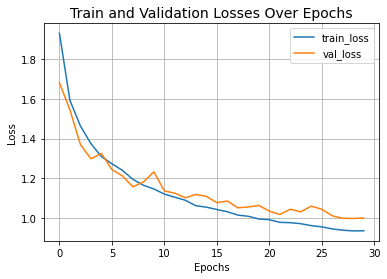
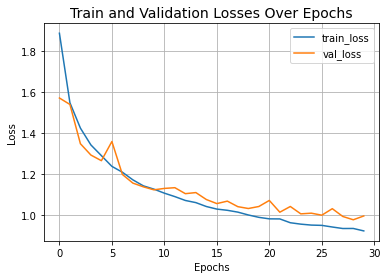
added hugginface links cct

diff --git a/examples/vision/md/cct.md b/examples/vision/md/cct.md
@@ -98,6 +98,9 @@ print(f"x_test shape: {x_test.shape} - y_test shape: {y_test.shape}")
 
 <div class="k-default-codeblock">
 ```
+Downloading data from https://www.cs.toronto.edu/~kriz/cifar-10-python.tar.gz
+170500096/170498071 [==============================] - 2s 0us/step
+170508288/170498071 [==============================] - 2s 0us/step
 x_train shape: (50000, 32, 32, 3) - y_train shape: (50000, 10)
 x_test shape: (10000, 32, 32, 3) - y_test shape: (10000, 10)
 
@@ -381,68 +384,68 @@ history = run_experiment(cct_model)
 <div class="k-default-codeblock">
 ```
 Epoch 1/30
-352/352 [==============================] - 16s 37ms/step - loss: 1.9286 - accuracy: 0.3262 - top-5-accuracy: 0.8222 - val_loss: 1.6803 - val_accuracy: 0.4624 - val_top-5-accuracy: 0.9074
+352/352 [==============================] - 19s 38ms/step - loss: 1.8851 - accuracy: 0.3445 - top-5-accuracy: 0.8316 - val_loss: 1.5695 - val_accuracy: 0.4974 - val_top-5-accuracy: 0.9368
 Epoch 2/30
-352/352 [==============================] - 12s 35ms/step - loss: 1.5919 - accuracy: 0.4884 - top-5-accuracy: 0.9280 - val_loss: 1.5446 - val_accuracy: 0.5176 - val_top-5-accuracy: 0.9404
+352/352 [==============================] - 12s 35ms/step - loss: 1.5465 - accuracy: 0.5080 - top-5-accuracy: 0.9367 - val_loss: 1.5381 - val_accuracy: 0.5166 - val_top-5-accuracy: 0.9458
 Epoch 3/30
-352/352 [==============================] - 12s 35ms/step - loss: 1.4632 - accuracy: 0.5535 - top-5-accuracy: 0.9492 - val_loss: 1.3702 - val_accuracy: 0.6046 - val_top-5-accuracy: 0.9574
+352/352 [==============================] - 12s 35ms/step - loss: 1.4227 - accuracy: 0.5747 - top-5-accuracy: 0.9524 - val_loss: 1.3466 - val_accuracy: 0.6174 - val_top-5-accuracy: 0.9658
 Epoch 4/30
-352/352 [==============================] - 12s 35ms/step - loss: 1.3749 - accuracy: 0.5965 - top-5-accuracy: 0.9588 - val_loss: 1.2989 - val_accuracy: 0.6378 - val_top-5-accuracy: 0.9696
+352/352 [==============================] - 12s 35ms/step - loss: 1.3407 - accuracy: 0.6166 - top-5-accuracy: 0.9626 - val_loss: 1.2914 - val_accuracy: 0.6370 - val_top-5-accuracy: 0.9708
 Epoch 5/30
-352/352 [==============================] - 12s 35ms/step - loss: 1.3095 - accuracy: 0.6282 - top-5-accuracy: 0.9651 - val_loss: 1.3252 - val_accuracy: 0.6280 - val_top-5-accuracy: 0.9668
+352/352 [==============================] - 12s 35ms/step - loss: 1.2885 - accuracy: 0.6399 - top-5-accuracy: 0.9674 - val_loss: 1.2640 - val_accuracy: 0.6494 - val_top-5-accuracy: 0.9734
 Epoch 6/30
-352/352 [==============================] - 12s 35ms/step - loss: 1.2735 - accuracy: 0.6483 - top-5-accuracy: 0.9687 - val_loss: 1.2445 - val_accuracy: 0.6658 - val_top-5-accuracy: 0.9750
+352/352 [==============================] - 12s 35ms/step - loss: 1.2363 - accuracy: 0.6659 - top-5-accuracy: 0.9723 - val_loss: 1.3574 - val_accuracy: 0.6294 - val_top-5-accuracy: 0.9522
 Epoch 7/30
-352/352 [==============================] - 12s 35ms/step - loss: 1.2405 - accuracy: 0.6623 - top-5-accuracy: 0.9712 - val_loss: 1.2127 - val_accuracy: 0.6800 - val_top-5-accuracy: 0.9734
+352/352 [==============================] - 12s 35ms/step - loss: 1.2077 - accuracy: 0.6787 - top-5-accuracy: 0.9752 - val_loss: 1.1969 - val_accuracy: 0.6942 - val_top-5-accuracy: 0.9712
 Epoch 8/30
-352/352 [==============================] - 13s 36ms/step - loss: 1.1953 - accuracy: 0.6852 - top-5-accuracy: 0.9760 - val_loss: 1.1579 - val_accuracy: 0.7042 - val_top-5-accuracy: 0.9764
+352/352 [==============================] - 12s 35ms/step - loss: 1.1705 - accuracy: 0.6983 - top-5-accuracy: 0.9770 - val_loss: 1.1547 - val_accuracy: 0.7032 - val_top-5-accuracy: 0.9792
 Epoch 9/30
-352/352 [==============================] - 12s 35ms/step - loss: 1.1659 - accuracy: 0.6940 - top-5-accuracy: 0.9787 - val_loss: 1.1817 - val_accuracy: 0.7026 - val_top-5-accuracy: 0.9746
+352/352 [==============================] - 12s 35ms/step - loss: 1.1413 - accuracy: 0.7113 - top-5-accuracy: 0.9797 - val_loss: 1.1365 - val_accuracy: 0.7182 - val_top-5-accuracy: 0.9786
 Epoch 10/30
-352/352 [==============================] - 12s 35ms/step - loss: 1.1469 - accuracy: 0.7097 - top-5-accuracy: 0.9784 - val_loss: 1.2331 - val_accuracy: 0.6684 - val_top-5-accuracy: 0.9758
+352/352 [==============================] - 12s 35ms/step - loss: 1.1253 - accuracy: 0.7169 - top-5-accuracy: 0.9800 - val_loss: 1.1220 - val_accuracy: 0.7252 - val_top-5-accuracy: 0.9790
 Epoch 11/30
-352/352 [==============================] - 12s 35ms/step - loss: 1.1214 - accuracy: 0.7196 - top-5-accuracy: 0.9800 - val_loss: 1.1374 - val_accuracy: 0.7222 - val_top-5-accuracy: 0.9796
+352/352 [==============================] - 12s 35ms/step - loss: 1.1056 - accuracy: 0.7278 - top-5-accuracy: 0.9810 - val_loss: 1.1288 - val_accuracy: 0.7226 - val_top-5-accuracy: 0.9784
 Epoch 12/30
-352/352 [==============================] - 13s 36ms/step - loss: 1.1055 - accuracy: 0.7264 - top-5-accuracy: 0.9818 - val_loss: 1.1257 - val_accuracy: 0.7276 - val_top-5-accuracy: 0.9796
+352/352 [==============================] - 12s 35ms/step - loss: 1.0889 - accuracy: 0.7371 - top-5-accuracy: 0.9822 - val_loss: 1.1323 - val_accuracy: 0.7184 - val_top-5-accuracy: 0.9788
 Epoch 13/30
-352/352 [==============================] - 12s 35ms/step - loss: 1.0904 - accuracy: 0.7337 - top-5-accuracy: 0.9820 - val_loss: 1.1029 - val_accuracy: 0.7374 - val_top-5-accuracy: 0.9794
+352/352 [==============================] - 12s 35ms/step - loss: 1.0701 - accuracy: 0.7448 - top-5-accuracy: 0.9836 - val_loss: 1.1032 - val_accuracy: 0.7312 - val_top-5-accuracy: 0.9798
 Epoch 14/30
-352/352 [==============================] - 12s 35ms/step - loss: 1.0629 - accuracy: 0.7483 - top-5-accuracy: 0.9842 - val_loss: 1.1196 - val_accuracy: 0.7260 - val_top-5-accuracy: 0.9792
+352/352 [==============================] - 12s 35ms/step - loss: 1.0596 - accuracy: 0.7489 - top-5-accuracy: 0.9845 - val_loss: 1.1085 - val_accuracy: 0.7378 - val_top-5-accuracy: 0.9794
 Epoch 15/30
-352/352 [==============================] - 12s 35ms/step - loss: 1.0558 - accuracy: 0.7528 - top-5-accuracy: 0.9837 - val_loss: 1.1100 - val_accuracy: 0.7308 - val_top-5-accuracy: 0.9780
+352/352 [==============================] - 12s 35ms/step - loss: 1.0406 - accuracy: 0.7564 - top-5-accuracy: 0.9857 - val_loss: 1.0746 - val_accuracy: 0.7438 - val_top-5-accuracy: 0.9828
 Epoch 16/30
-352/352 [==============================] - 12s 35ms/step - loss: 1.0440 - accuracy: 0.7567 - top-5-accuracy: 0.9850 - val_loss: 1.0782 - val_accuracy: 0.7454 - val_top-5-accuracy: 0.9830
+352/352 [==============================] - 12s 35ms/step - loss: 1.0280 - accuracy: 0.7635 - top-5-accuracy: 0.9860 - val_loss: 1.0549 - val_accuracy: 0.7548 - val_top-5-accuracy: 0.9832
 Epoch 17/30
-352/352 [==============================] - 12s 35ms/step - loss: 1.0327 - accuracy: 0.7607 - top-5-accuracy: 0.9861 - val_loss: 1.0865 - val_accuracy: 0.7418 - val_top-5-accuracy: 0.9824
+352/352 [==============================] - 12s 35ms/step - loss: 1.0222 - accuracy: 0.7693 - top-5-accuracy: 0.9867 - val_loss: 1.0668 - val_accuracy: 0.7566 - val_top-5-accuracy: 0.9786
 Epoch 18/30
-352/352 [==============================] - 12s 35ms/step - loss: 1.0160 - accuracy: 0.7695 - top-5-accuracy: 0.9870 - val_loss: 1.0525 - val_accuracy: 0.7594 - val_top-5-accuracy: 0.9822
+352/352 [==============================] - 12s 35ms/step - loss: 1.0132 - accuracy: 0.7705 - top-5-accuracy: 0.9860 - val_loss: 1.0399 - val_accuracy: 0.7632 - val_top-5-accuracy: 0.9812
 Epoch 19/30
-352/352 [==============================] - 12s 35ms/step - loss: 1.0099 - accuracy: 0.7738 - top-5-accuracy: 0.9867 - val_loss: 1.0568 - val_accuracy: 0.7512 - val_top-5-accuracy: 0.9830
+352/352 [==============================] - 12s 35ms/step - loss: 0.9993 - accuracy: 0.7757 - top-5-accuracy: 0.9878 - val_loss: 1.0309 - val_accuracy: 0.7626 - val_top-5-accuracy: 0.9848
 Epoch 20/30
-352/352 [==============================] - 12s 35ms/step - loss: 0.9964 - accuracy: 0.7798 - top-5-accuracy: 0.9880 - val_loss: 1.0645 - val_accuracy: 0.7542 - val_top-5-accuracy: 0.9804
+352/352 [==============================] - 12s 35ms/step - loss: 0.9879 - accuracy: 0.7858 - top-5-accuracy: 0.9883 - val_loss: 1.0406 - val_accuracy: 0.7600 - val_top-5-accuracy: 0.9844
 Epoch 21/30
-352/352 [==============================] - 12s 35ms/step - loss: 0.9929 - accuracy: 0.7807 - top-5-accuracy: 0.9880 - val_loss: 1.0358 - val_accuracy: 0.7692 - val_top-5-accuracy: 0.9832
+352/352 [==============================] - 12s 35ms/step - loss: 0.9805 - accuracy: 0.7861 - top-5-accuracy: 0.9881 - val_loss: 1.0702 - val_accuracy: 0.7582 - val_top-5-accuracy: 0.9806
 Epoch 22/30
-352/352 [==============================] - 12s 35ms/step - loss: 0.9796 - accuracy: 0.7854 - top-5-accuracy: 0.9889 - val_loss: 1.0191 - val_accuracy: 0.7748 - val_top-5-accuracy: 0.9844
+352/352 [==============================] - 12s 35ms/step - loss: 0.9801 - accuracy: 0.7875 - top-5-accuracy: 0.9881 - val_loss: 1.0129 - val_accuracy: 0.7754 - val_top-5-accuracy: 0.9878
 Epoch 23/30
-352/352 [==============================] - 12s 35ms/step - loss: 0.9779 - accuracy: 0.7882 - top-5-accuracy: 0.9879 - val_loss: 1.0452 - val_accuracy: 0.7654 - val_top-5-accuracy: 0.9810
+352/352 [==============================] - 12s 35ms/step - loss: 0.9615 - accuracy: 0.7952 - top-5-accuracy: 0.9895 - val_loss: 1.0407 - val_accuracy: 0.7658 - val_top-5-accuracy: 0.9824
 Epoch 24/30
-352/352 [==============================] - 12s 35ms/step - loss: 0.9728 - accuracy: 0.7901 - top-5-accuracy: 0.9889 - val_loss: 1.0324 - val_accuracy: 0.7674 - val_top-5-accuracy: 0.9822
+352/352 [==============================] - 12s 35ms/step - loss: 0.9546 - accuracy: 0.7989 - top-5-accuracy: 0.9894 - val_loss: 1.0048 - val_accuracy: 0.7796 - val_top-5-accuracy: 0.9862
 Epoch 25/30
-352/352 [==============================] - 12s 35ms/step - loss: 0.9630 - accuracy: 0.7948 - top-5-accuracy: 0.9885 - val_loss: 1.0611 - val_accuracy: 0.7620 - val_top-5-accuracy: 0.9844
+352/352 [==============================] - 12s 35ms/step - loss: 0.9501 - accuracy: 0.8007 - top-5-accuracy: 0.9902 - val_loss: 1.0081 - val_accuracy: 0.7786 - val_top-5-accuracy: 0.9856
 Epoch 26/30
-352/352 [==============================] - 12s 35ms/step - loss: 0.9569 - accuracy: 0.7965 - top-5-accuracy: 0.9902 - val_loss: 1.0451 - val_accuracy: 0.7700 - val_top-5-accuracy: 0.9840
+352/352 [==============================] - 12s 35ms/step - loss: 0.9487 - accuracy: 0.8015 - top-5-accuracy: 0.9898 - val_loss: 0.9984 - val_accuracy: 0.7802 - val_top-5-accuracy: 0.9872
 Epoch 27/30
-352/352 [==============================] - 12s 35ms/step - loss: 0.9466 - accuracy: 0.8030 - top-5-accuracy: 0.9901 - val_loss: 1.0123 - val_accuracy: 0.7824 - val_top-5-accuracy: 0.9874
+352/352 [==============================] - 12s 35ms/step - loss: 0.9407 - accuracy: 0.8042 - top-5-accuracy: 0.9904 - val_loss: 1.0300 - val_accuracy: 0.7748 - val_top-5-accuracy: 0.9846
 Epoch 28/30
-352/352 [==============================] - 12s 35ms/step - loss: 0.9402 - accuracy: 0.8054 - top-5-accuracy: 0.9902 - val_loss: 0.9999 - val_accuracy: 0.7784 - val_top-5-accuracy: 0.9858
+352/352 [==============================] - 12s 35ms/step - loss: 0.9334 - accuracy: 0.8080 - top-5-accuracy: 0.9903 - val_loss: 0.9921 - val_accuracy: 0.7864 - val_top-5-accuracy: 0.9888
 Epoch 29/30
-352/352 [==============================] - 12s 35ms/step - loss: 0.9365 - accuracy: 0.8070 - top-5-accuracy: 0.9905 - val_loss: 0.9993 - val_accuracy: 0.7866 - val_top-5-accuracy: 0.9850
+352/352 [==============================] - 12s 35ms/step - loss: 0.9336 - accuracy: 0.8082 - top-5-accuracy: 0.9911 - val_loss: 0.9760 - val_accuracy: 0.7946 - val_top-5-accuracy: 0.9878
 Epoch 30/30
-352/352 [==============================] - 12s 35ms/step - loss: 0.9373 - accuracy: 0.8045 - top-5-accuracy: 0.9906 - val_loss: 1.0009 - val_accuracy: 0.7870 - val_top-5-accuracy: 0.9864
-313/313 [==============================] - 2s 7ms/step - loss: 1.0088 - accuracy: 0.7761 - top-5-accuracy: 0.9844
-Test accuracy: 77.61%
-Test top 5 accuracy: 98.44%
+352/352 [==============================] - 12s 35ms/step - loss: 0.9217 - accuracy: 0.8129 - top-5-accuracy: 0.9915 - val_loss: 0.9946 - val_accuracy: 0.7872 - val_top-5-accuracy: 0.9864
+313/313 [==============================] - 3s 8ms/step - loss: 1.0027 - accuracy: 0.7822 - top-5-accuracy: 0.9854
+Test accuracy: 78.22%
+Test top 5 accuracy: 98.54%
 
 ```
 </div>
@@ -484,3 +487,8 @@ to know about the experimental setup.
 
 The authors also demonstrate the performance of Compact Convolutional Transformers on
 NLP tasks and they report competitive results there.
+
+Example available on HuggingFace:
+| Trained Model | Demo |
+|------|------|
+| [![🤗 Model - CCT](https://img.shields.io/badge/🤗_Model-Compact_Convolutional_Transformers-black)](https://huggingface.co/keras-io/cct) | [![🤗 Spaces - CCT](https://img.shields.io/badge/🤗_Spaces-Compact_Convolutional_Transformers-black)](https://huggingface.co/spaces/keras-io/cct) |
